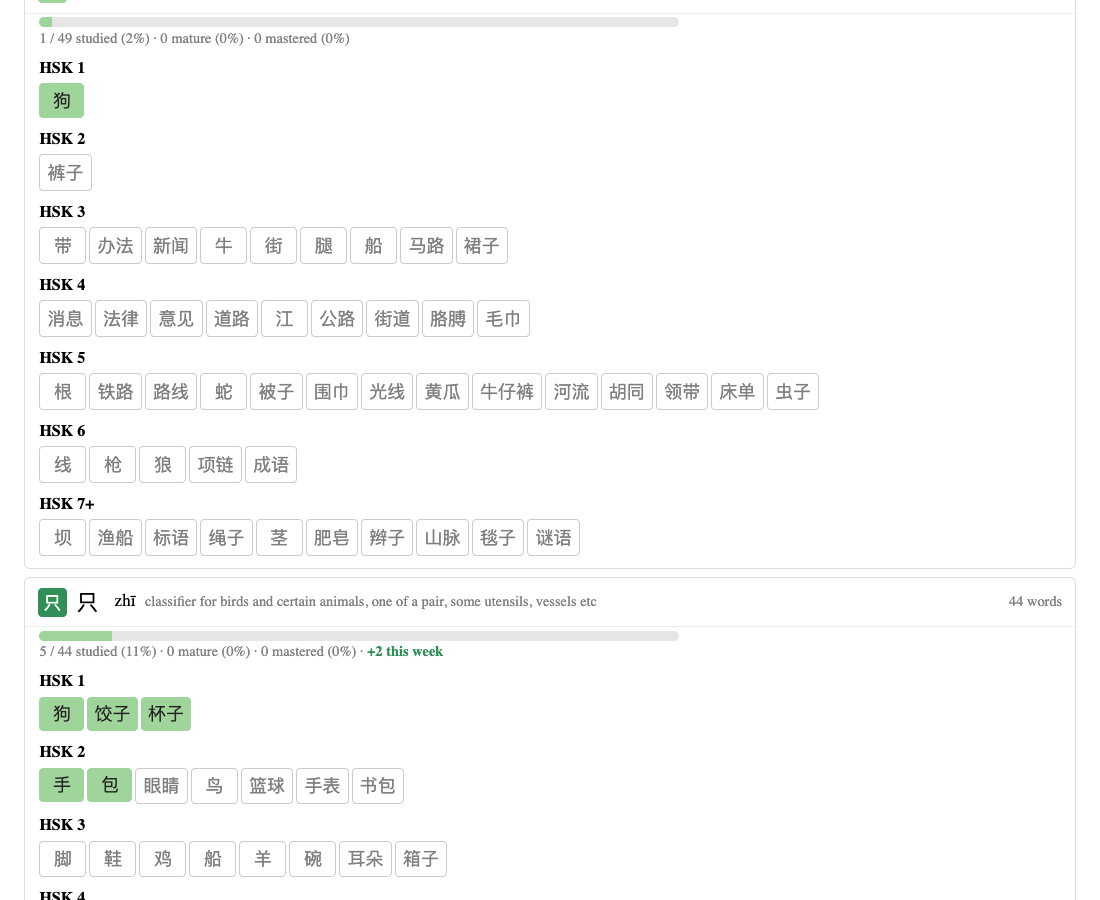
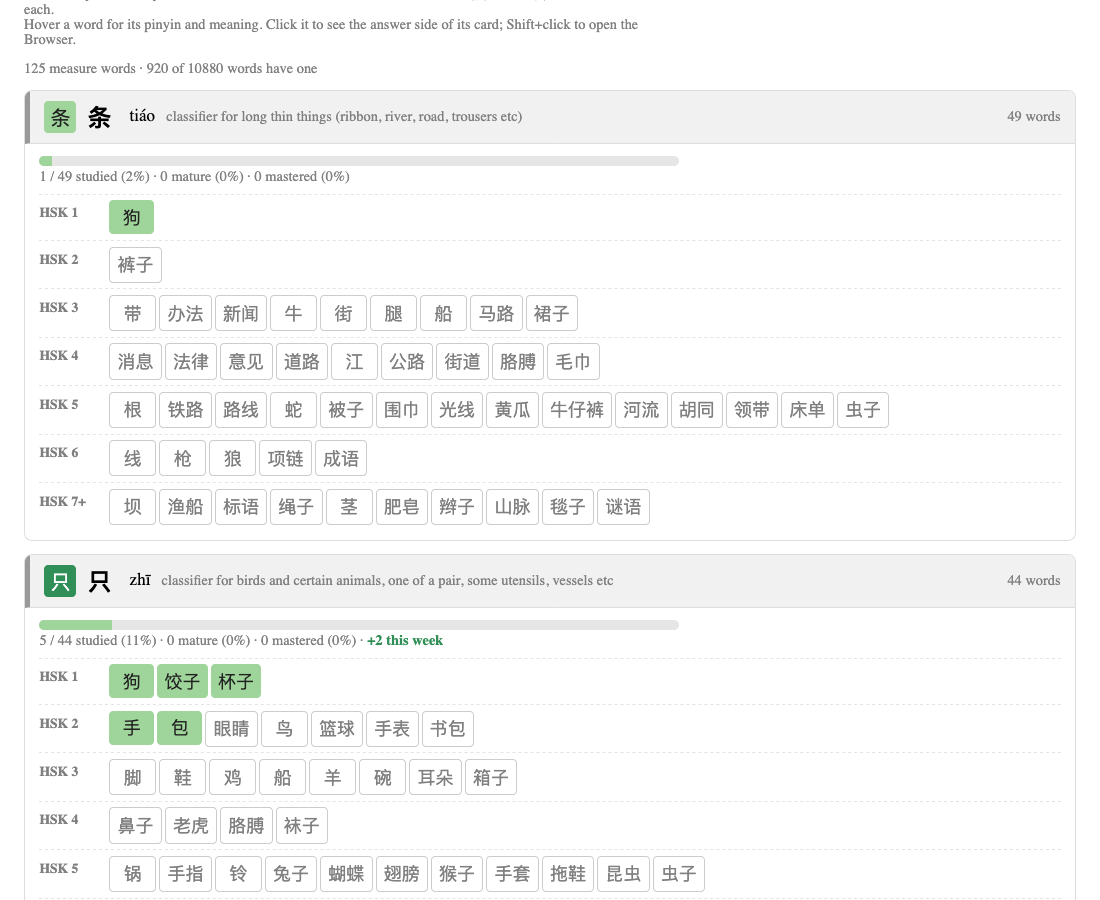
Hanzi Grid 1.4.1: Measure words view: working Find, level rows, clearer headings

diff --git a/__init__.py b/__init__.py
@@ -191,17 +191,24 @@ body[data-show="weak"] .grid .tile:not(.weak) { display: none; }
 .gp .todo { color: var(--fg-subtle, gray); font-style: italic; }
 .gcount { color: var(--fg-subtle, gray); font-size: .9em; margin: .2em 0 .5em; }
 
-/* The Measure words view: one collapsible block per measure word. */
-.mw { margin: .5em 0; border: 1px solid var(--border-subtle, #ddd); border-radius: 6px; }
-.mw.hide { display: none; }
-.mw summary { padding: .5em .8em; cursor: pointer; display: flex; align-items: center; gap: .6em; flex-wrap: wrap; }
+/* The Measure words view: one collapsible block per measure word, with
+   a tinted heading, and inside it one row per level. */
+.mw { margin: .8em 0; border: 1px solid var(--border-subtle, #ddd); border-radius: 8px; overflow: hidden; }
+.mw.hide, .lv.hide { display: none; }
+.mw summary {
+  padding: .55em .9em; cursor: pointer; display: flex; align-items: center; gap: .7em; flex-wrap: wrap;
+  background: var(--canvas-inset, #f1f1f1); border-left: 5px solid var(--fg-subtle, #999);
+}
+.mw[open] summary { border-bottom: 1px solid var(--border-subtle, #ddd); }
 .mw summary::-webkit-details-marker { display: none; }
-.mw summary .tile { font-size: 18px; height: 1.6em; min-width: 1.6em; flex: none; }
-.mw summary .hz { font-size: 22px; }
+.mw summary .tile { font-size: 20px; height: 1.6em; min-width: 1.6em; flex: none; }
+.mw summary .hz { font-size: 24px; font-weight: bold; }
 .mw summary .gloss { color: var(--fg-subtle, gray); font-size: .9em; }
 .mw summary .pat { color: var(--fg-subtle, gray); font-size: .9em; margin-left: auto; white-space: nowrap; }
-.mw .body { padding: .2em .9em .8em; border-top: 1px solid var(--border-subtle, #eee); }
-.mw .body h3 { margin: .8em 0 .3em; }
+.mw .body { padding: .3em .9em .6em; }
+.mw .bar { margin-top: .4em; }
+.lv { display: flex; align-items: flex-start; gap: .8em; padding: .35em 0; border-top: 1px dashed var(--border-subtle, #e3e3e3); }
+.lv .lvl { flex: none; width: 4.2em; padding-top: .45em; font-size: .85em; font-weight: bold; color: var(--fg-subtle, gray); }
 
 /* Status colours, shared by tiles and progress bars. */
 .s0 { border: 1px solid var(--border-subtle, #ccc); color: var(--fg-subtle, gray); }
@@ -285,6 +292,30 @@ find.addEventListener("input", () => {
     }
     return;
   }
+  if (view === "measure") {
+    // A measure word block matches by its heading (本, běn, "books"), and
+    // then shows all its words; otherwise only the words that match are
+    // shown, and empty rows and blocks are hidden.
+    const q = query.toLowerCase();
+    for (const block of document.querySelectorAll(".mw")) {
+      const head = block.querySelector("summary").textContent.toLowerCase();
+      const whole = !q || head.includes(q);
+      let any = false;
+      for (const row of block.querySelectorAll(".lv")) {
+        let rowAny = false;
+        for (const tile of row.querySelectorAll(".tile")) {
+          const match = whole || tile.textContent.includes(query);
+          tile.classList.toggle("hide", !match);
+          rowAny = rowAny || match;
+        }
+        row.classList.toggle("hide", !rowAny);
+        any = any || rowAny;
+      }
+      block.classList.toggle("hide", !any);
+      if (q && any) block.open = true;
+    }
+    return;
+  }
   for (const tile of document.querySelectorAll(".grid .tile")) {
     const text = tile.textContent;
     const match = !query || text.includes(query) || (view === "chars" && query.includes(text));
@@ -344,7 +375,8 @@ MEASURE_NOTE = (
     "Which measure word (classifier) each word takes, from <b>CC-CEDICT</b> "
     "(CC BY-SA 4.0). It marks mainly concrete nouns; a word that isn't listed "
     "usually takes 个. The tile in each heading is the measure word itself, "
-    "coloured by how well you know it."
+    "coloured by how well you know it. A word that takes several measure "
+    "words (狗: 只 or 条) is listed under each."
 )
 GRAMMAR_NOTE = (
     "Grammar points from the <b>Chinese Grammar Wiki</b> (AllSet Learning, "
@@ -638,7 +670,7 @@ def measure_html(grid: grid_data.Grid, config: dict) -> str:
                 parts.append(classifier_head(classifier, grid, config))
                 parts.append(f"<span class='pat'>{len(items)} words</span></summary><div class='body'>")
                 parts.append(progress(items))
-                parts.append("<div class='grid'>" + "".join(entry_tile_html(e, config) for e in items) + "</div>")
+                parts.append(level_row(label, items, config))
                 parts.append("</div></details>")
         return "".join(parts)
 
@@ -652,10 +684,16 @@ def measure_html(grid: grid_data.Grid, config: dict) -> str:
         parts.append(classifier_head(classifier, grid, config))
         parts.append(f"<span class='pat'>{len(items)} words{' · the general measure word' if general else ''}</span></summary><div class='body'>")
         parts.append(progress(items))
-        for label, group in levels:
-            parts.append(f"<h3>{escape(label)}</h3><div class='grid'>" + "".join(entry_tile_html(e, config) for e in group) + "</div>")
+        parts.extend(level_row(label, group, config) for label, group in levels)
         parts.append("</div></details>")
     return "".join(parts)
+
+
+def level_row(label: str, entries, config: dict) -> str:
+    """One row of a measure word block: the level on the left, its words
+    on the right."""
+    tiles = "".join(entry_tile_html(e, config) for e in entries)
+    return f"<div class='lv'><span class='lvl'>{escape(label)}</span><div class='grid'>{tiles}</div></div>"
 
 
 _grammar = None  # (index, points) once loaded

diff --git a/CHANGELOG.md b/CHANGELOG.md
@@ -1,5 +1,13 @@
 # Changelog
 
+## 1.4.1 (2026-11-16)
+
+- Measure words view: Find now searches by measure word, pinyin or gloss
+  (本, ben, books) and shows the whole block, or by word and hides the
+  rows and blocks with no match. Clearer layout: tinted headings, one row
+  per HSK level. The note explains that a word with several measure words
+  (狗: 只 or 条) appears under each.
+
 ## 1.4.0 (2026-11-16)
 
 - **Measure words view**: words grouped by the classifier they take
